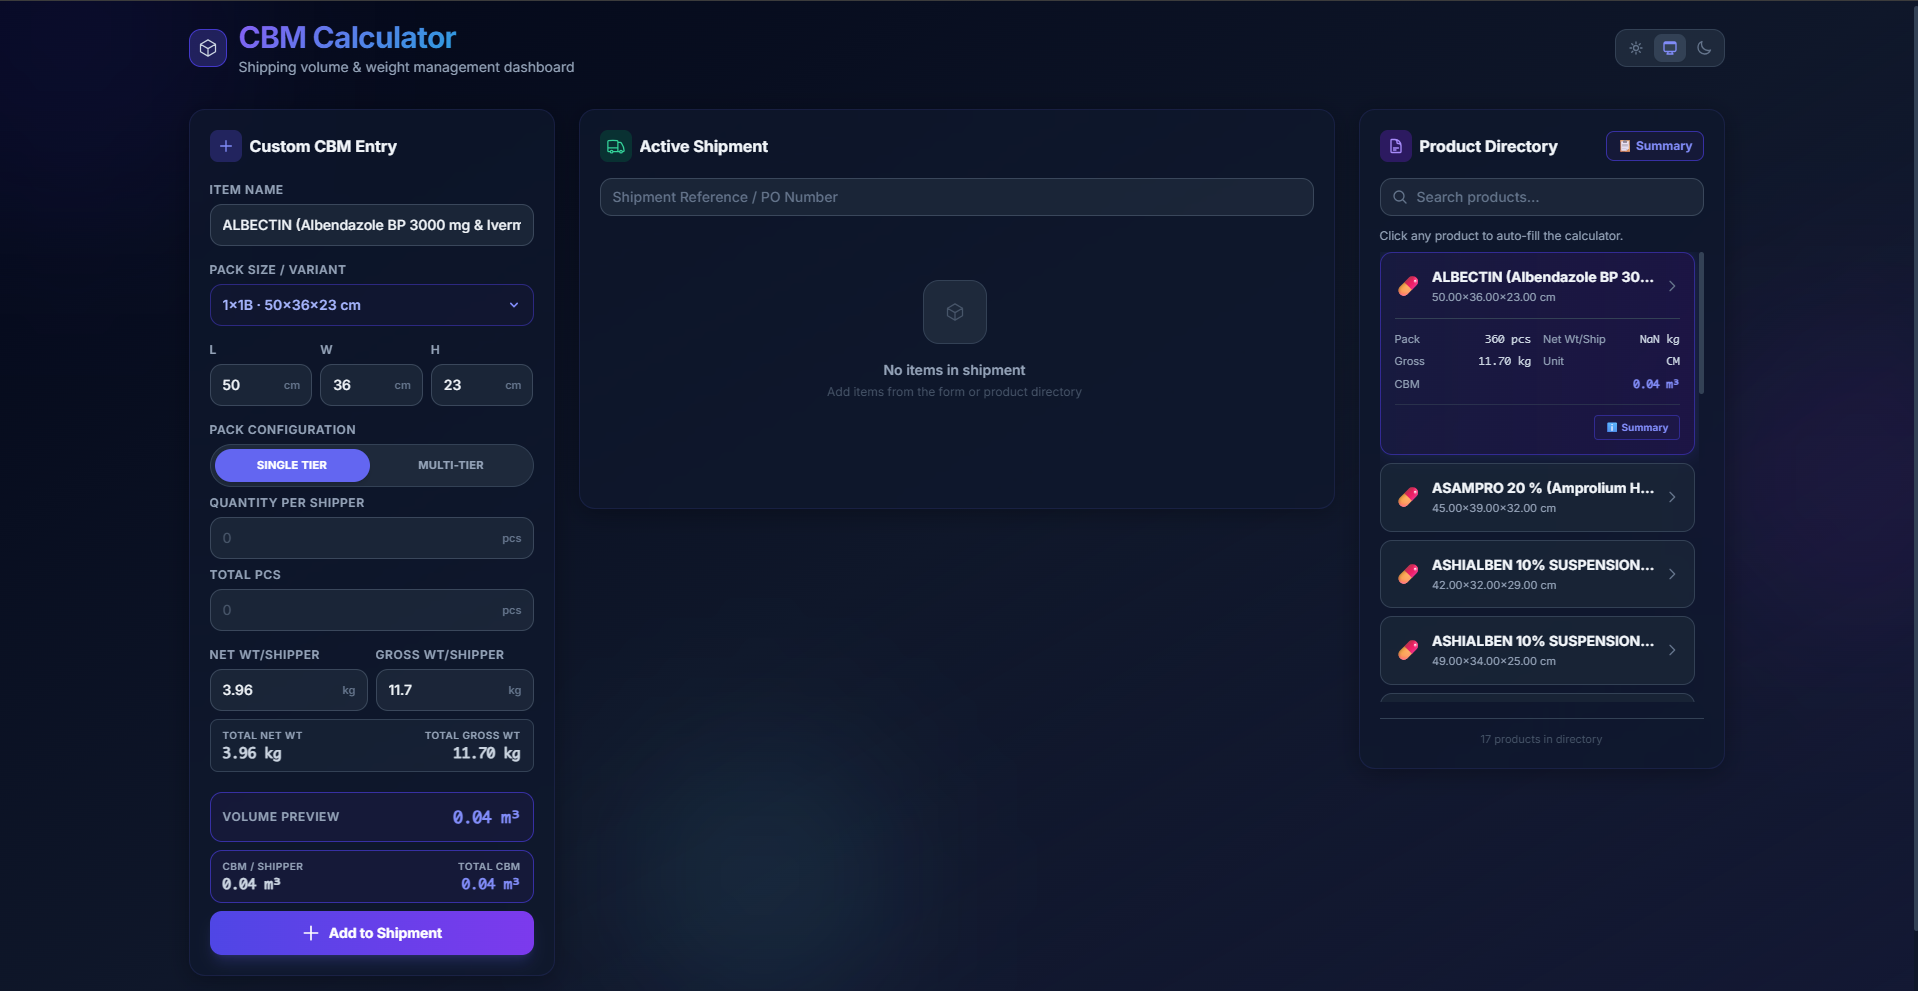
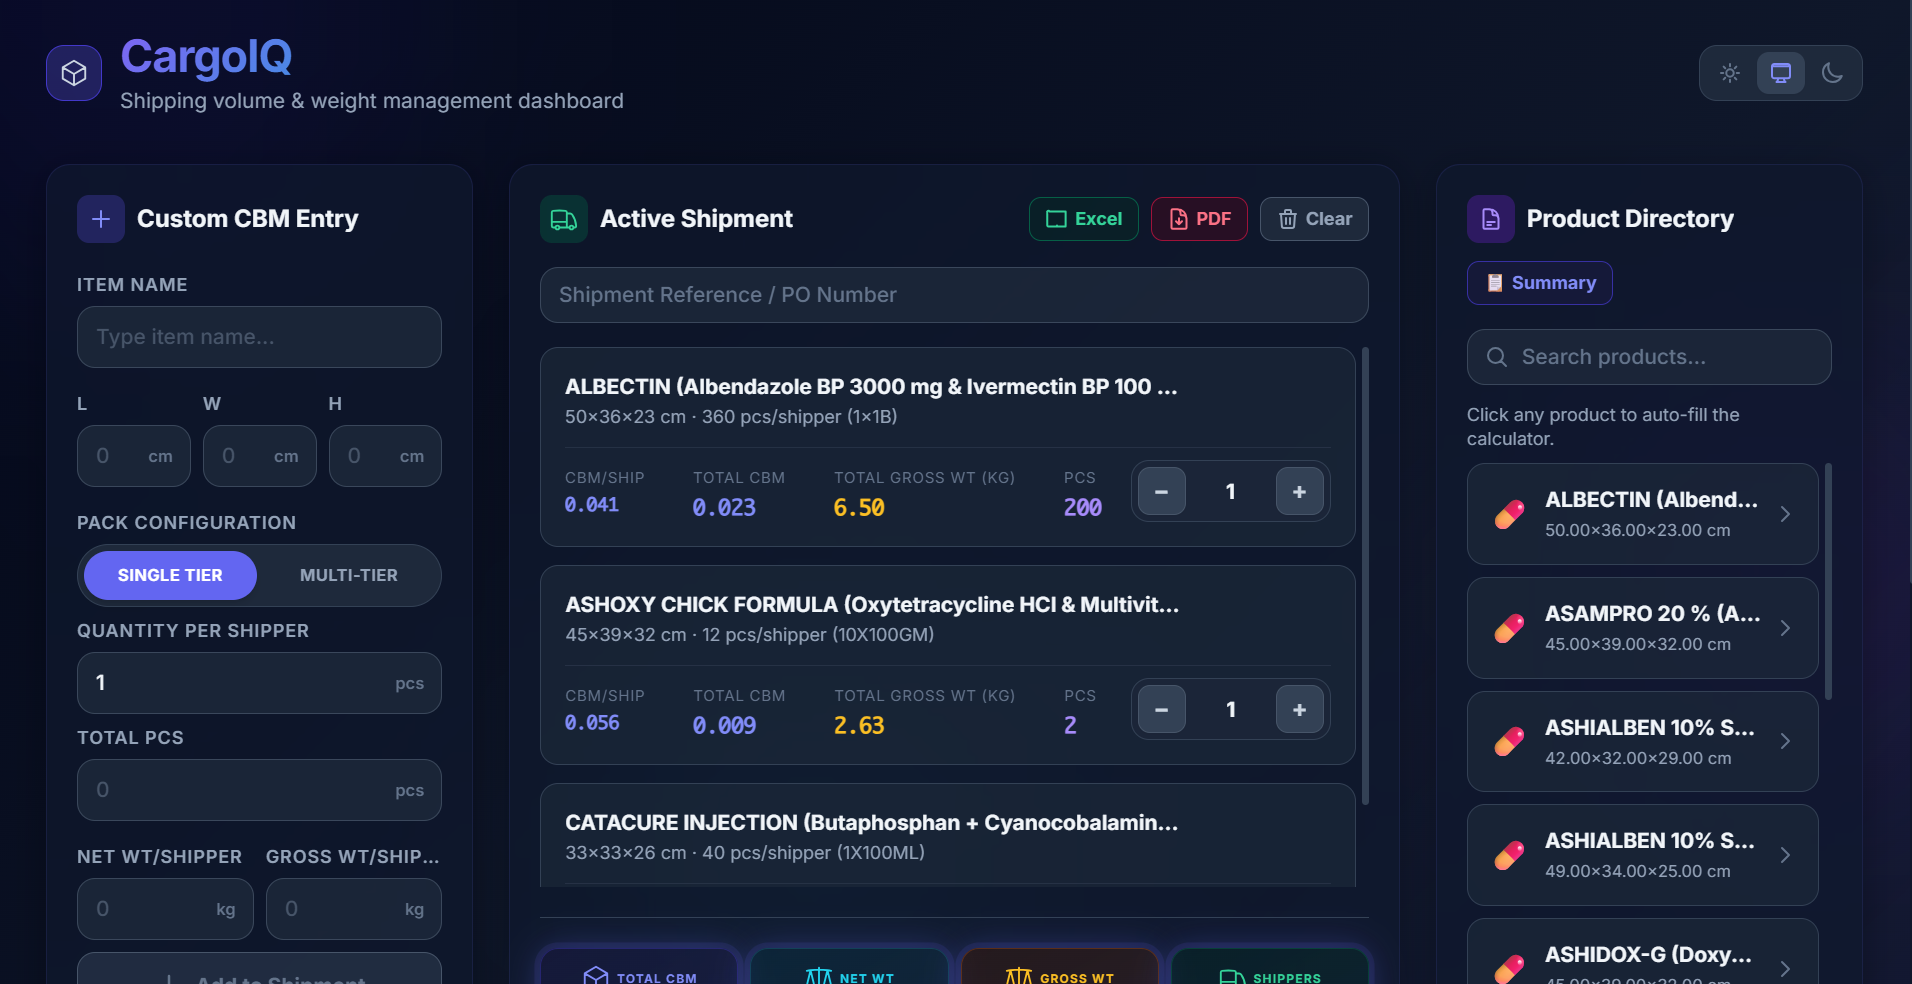
changes

diff --git a/components/projects.tsx b/components/projects.tsx
@@ -27,7 +27,7 @@ const projects: Project[] = [
       '/projects/landmark1.png',
       '/projects/landmark2.png',
     ],
-    tags: ['React', 'Node.js', 'MongoDB', 'Express'],
+    tags: ['React', 'Node.js', 'Tailwind CSS', 'Express', 'Supabase'],
   },
   {
     title: 'CargoIQ — Shipping volume & weight management dashboard',
@@ -38,9 +38,8 @@ const projects: Project[] = [
     images: [
       '/projects/cbm-calculator.png',
       '/projects/cbm-calculator1.png',
-      '/projects/cbm-calculator2.png',
     ],
-    tags: ['JavaScript', 'HTML', 'MSSQL', 'CSS'],
+    tags: ['React', 'Node.js', 'MS SQL Server', 'Tailwind CSS'],
   },
   {
     title: 'Minerva — GST Automation Tool',
@@ -49,11 +48,11 @@ const projects: Project[] = [
     description:
       'A full-stack web application that automates GST report generation for Indian businesses. The system accepts sales data in any CSV format, uses AI to intelligently map columns from any accounting software export (Tally, Zoho Books, QuickBooks, Busy Accounting), calculates CGST, SGST, and IGST across domestic and international transactions, and generates structured GSTR-1 and GSTR-3B Excel reports.',
     images: [
-      '/projects/gstr-report-automation.png',
-      '/projects/gstr-report-automation1.png',
-      '/projects/gstr-report-automation2.png',
+      '/projects/gst.png',
+      '/projects/gst1.png',
+      '/projects/gst2.png',
     ],
-    tags: ['JavaScript', 'Python', 'CSS', 'HTML', 'Gemini AI'],
+    tags: ['React', 'Python', 'CSS', 'HTML', 'Gemini AI'],
   },
   {
     title: 'ShiftSync — Overtime Report Analyzer',

diff --git a/components/contact.tsx b/components/contact.tsx
@@ -9,7 +9,7 @@ gsap.registerPlugin(ScrollTrigger)
 
 const socials = [
   { label: 'Email', value: '[email redacted]', href: 'mailto:[email redacted]' },
-  { label: 'GitHub', value: '@_____________', href: 'https://github.com' },
+  { label: 'GitHub', value: '@lilayodhya', href: 'https://github.com' },
   { label: 'LinkedIn', value: 'in/saarthakksuri', href: 'https://www.linkedin.com/in/saarthakk-suri-275424235' },
 ]
 

diff --git a/components/hero.tsx b/components/hero.tsx
@@ -44,7 +44,7 @@ export function Hero() {
       className="relative flex min-h-[100svh] flex-col justify-center overflow-hidden px-6 pt-28 pb-16"
     >
       {/* 3D backdrop */}
-      <div className="pointer-events-none absolute inset-0 opacity-70">
+      <div className="absolute inset-0 opacity-70">
         <HeroCanvas />
       </div>
       {/* vignette */}